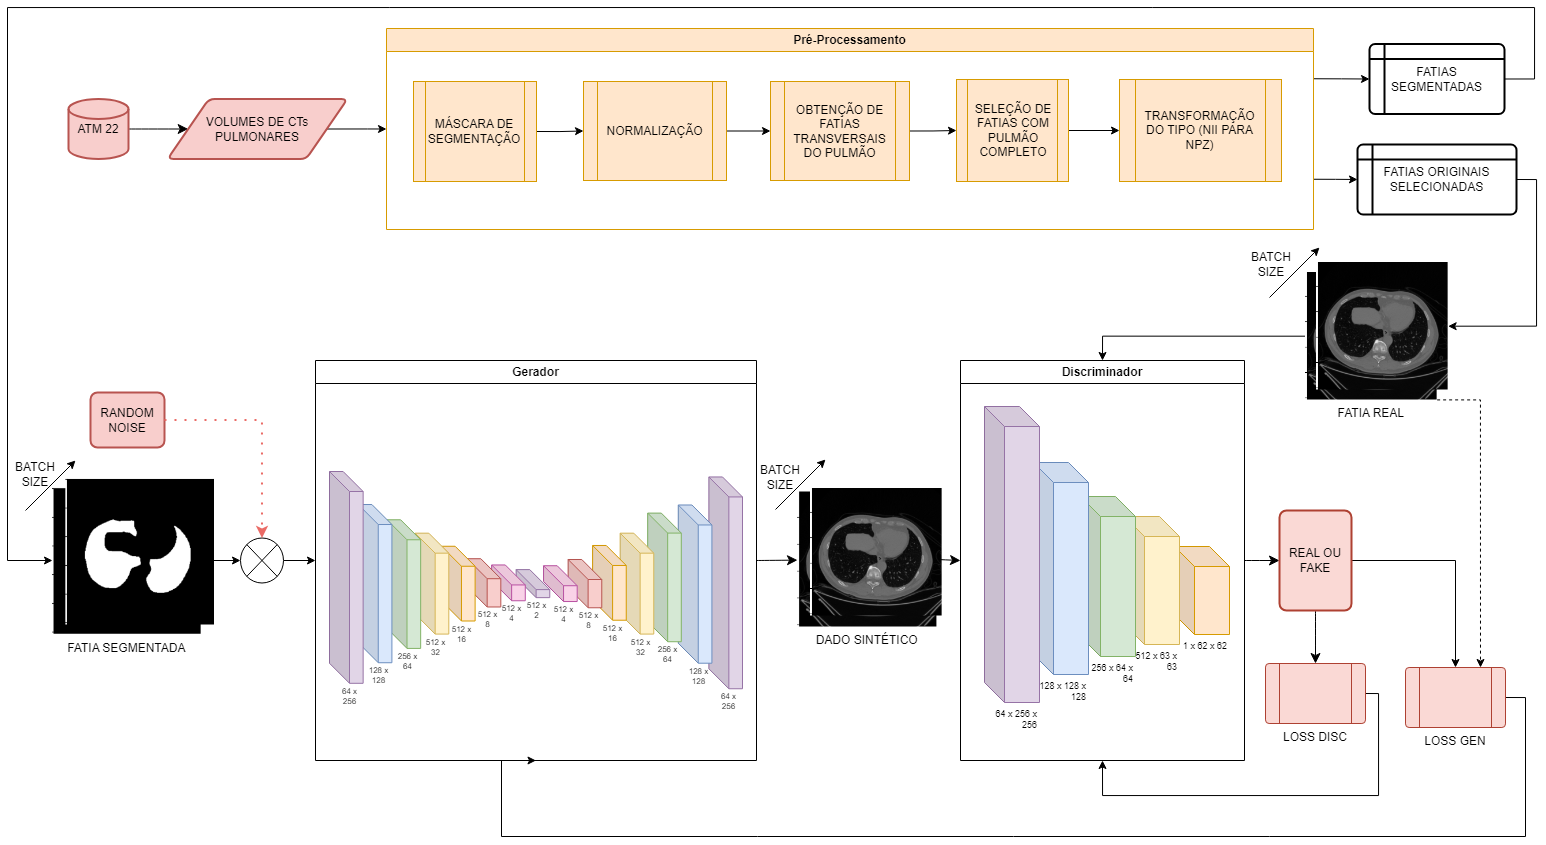
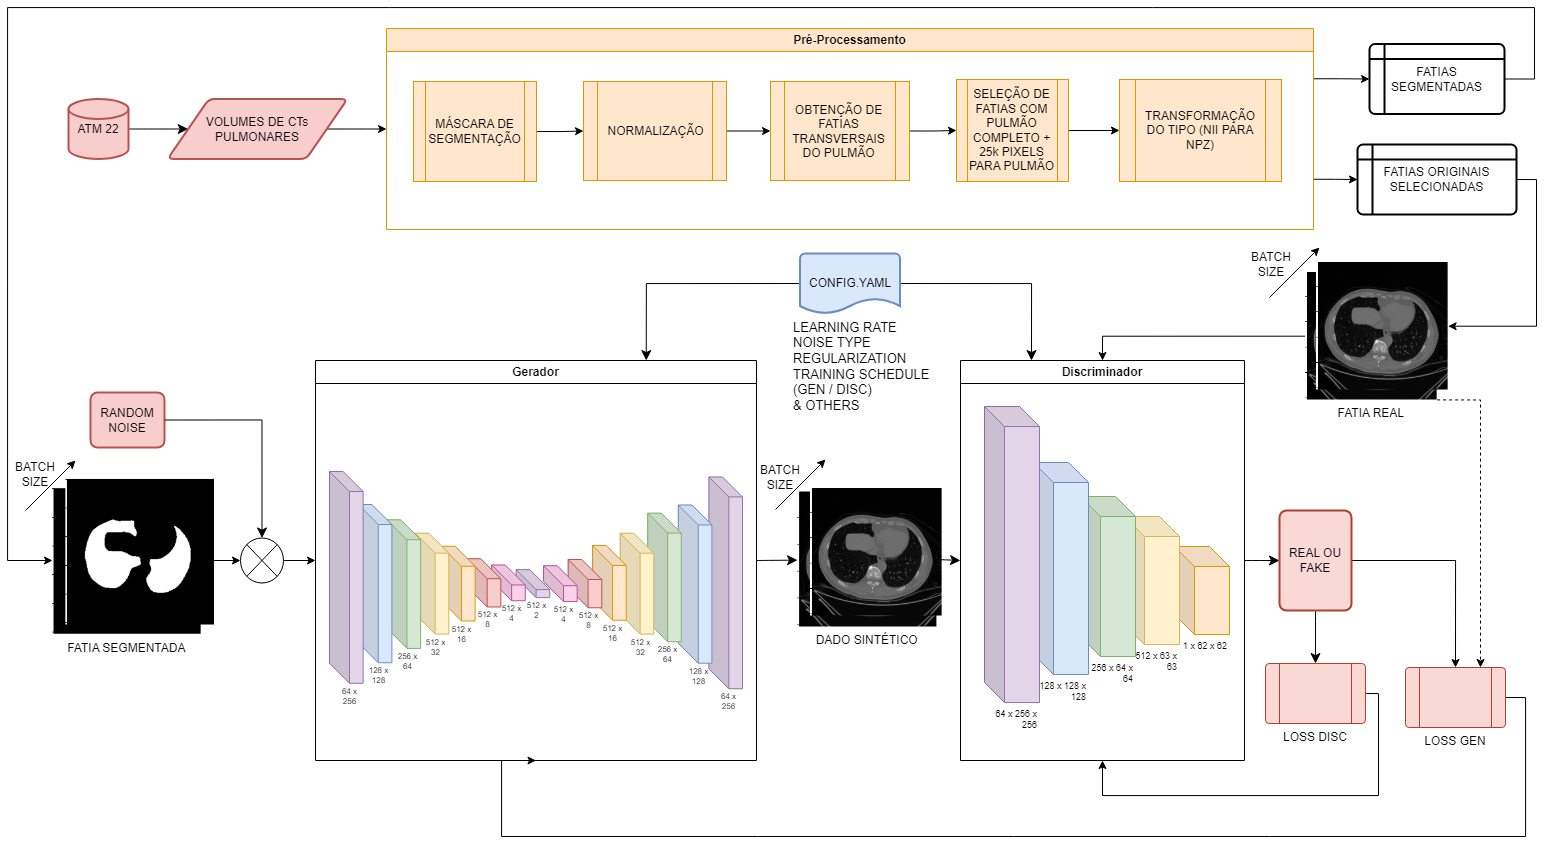
[README] Update metodologia

diff --git a/projetos/PulmoNet/README.md b/projetos/PulmoNet/README.md
@@ -12,6 +12,45 @@ oferecida no segundo semestre de 2024, na Unicamp, sob supervisão da Profa. Dra
  | Júlia Castro de Paula | 219193 | Eng. Elétrica |
  | Letícia Levin Diniz | 201438  | Eng. Elétrica |
 
+## Tabela de Conteúdos
+
+1. [Resumo](#resumo-abstract)
+2. [Links Importantes](#links-importantes)
+3. [Descrição do Problema / Motivação](#descrição-do-problemamotivação)
+4. [Objetivo](#objetivo)
+5. [Metodologia](#metodologia)
+    1. [Materiais de Referência](#materiais-de-referência)
+    2. [Modelo Proposto](#modelo-proposto)
+    3. [Bases de Dados e Evolução](#bases-de-dados-e-evolução)
+    4. [Workflow](#workflow)
+    5. [Ferramentas Relevantes](#ferramentas-relevantes)
+    6. [Métricas de Avaliação](#métricas-de-avaliação)
+        1. [Análise Qualitativa](#análise-qualitativa)
+        2. [Análise Quantitativa](#análise-quantitativa)
+        3. [Análise de Utilidade](#análise-de-utilidade)
+    7. [Cronograma](#cronograma)
+    8. [Ambiente Computacional](#ambiente-computacional)
+6. [Experimentos, Resultados e Discussão dos Resultados](#experimentos-resultados-e-discussão-dos-resultados)
+7. [Conclusão](#conclusão)
+    1. [Próximos Passos](#próximos-passos)
+8. [Referências Bibliográficas](#referências-bibliográficas)
+
+**ANEXOS**:
+1. [Varredura dos parâmetros da GAN para 10 mil dados]()
+2. [Testes adicionais com outras arquiteturas]()
+3. [Como rodar os modelos](#how-to-run)
+
+## Links Importantes
+Links para apresentações de slides e vídeos para entregas E1, E2 e E3 para a disciplina:
+
+[Link para o vídeo de apresentação E1](https://drive.google.com/file/d/1TlpQOlCh_lAI0-jPPMPWOzGZ_werCo3d/view?usp=sharing)
+
+[Link para a apresentação de slides E1](https://docs.google.com/presentation/d/1b8W0Cw1eiTbWlJ0CJJ8eMRA4zyu2iLhYvggi55-mOb0/edit?usp=sharing)
+
+[Link para a apresentação de slides E2](https://docs.google.com/presentation/d/1QH5_WpeTp7kQPSVB78ukK7msn-Tx09pZoM_3dWmeqC4/edit?usp=sharing)
+
+> TODO: link E3
+
 ## Resumo (Abstract)
 
 > TODO: Update
@@ -22,12 +61,6 @@ As tomografias computadorizadas (CT) pulmonares e a segmentação das vias aére
 As tomografias computadorizadas (CT) pulmonares, juntamente com a segmentação das vias aéreas, desempenham um papel crucial no diagnóstico preciso de doenças pulmonares. Ao gerar imagens detalhadas da região torácica, ela permite que médicos mapeiem a anatomia das vias aéreas antes de procedimentos cirúrgicos, avaliando a extensão de lesões e facilitando o acompanhamento da progressão de doenças respiratórias [[2]](#2). Além disso, a CT é fundamental para monitorar a eficácia de tratamentos e detectar seus possíveis efeitos colaterais [[5]](#5).
 
 A complexidade e diversidade do corpo humano dificultam a obtenção de grandes volumes de dados médicos para treinar modelos de aprendizado de máquina, como as redes neurais. Essa escassez de dados pode levar a diagnósticos imprecisos, comprometendo a qualidade do atendimento aos pacientes [[6]](#6). Com as redes generativas é possível criar dados de forma a compensar essa escassez, permitindo que as redes aprendam muito mais detalhes do que utilizando apenas aqueles obtidos de exames reais.
-
-[Link para o vídeo de apresentação E1](https://drive.google.com/file/d/1TlpQOlCh_lAI0-jPPMPWOzGZ_werCo3d/view?usp=sharing)
-
-[Link para a apresentação de slides E1](https://docs.google.com/presentation/d/1b8W0Cw1eiTbWlJ0CJJ8eMRA4zyu2iLhYvggi55-mOb0/edit?usp=sharing)
-
-[Link para a apresentação de slides E2](https://docs.google.com/presentation/d/1QH5_WpeTp7kQPSVB78ukK7msn-Tx09pZoM_3dWmeqC4/edit?usp=sharing)
 
 ## Objetivo
 Este projeto visa gerar imagens sintéticas de tomografia computadorizada (CT) da região torácica de alta fidelidade, também produzindo máscaras de segmentação das vias aéreas. A priori, o modelo generativo proposto terá como saída imagens em duas dimensões (2D) de CT da região do tórax, com grau de realismo suficiente e que possa auxiliar redes de segmentação de vias aéreas. 
@@ -146,8 +179,35 @@ A figura abaixo resume esta etapa de tratamento dos dados por completo.
 
 > TODO: Incluir mais detalhes da metodologia
 
-Em função da 
+Em uma perspectiva geral do projeto, a metodologia se divide em três grandes estágios:
+1. Preparação da base de dados;
+2. Treinamento e fine-tunning de modelos de síntese;
+3. Avaliação dos modelos gerados.
 
+No que diz respeito à preparação da base de dados, aplica-se o fluxo descrito na Figura 10, da seção anterior, na qual os dados são obtidos de uma fonte pública, processados e separados em conjuntos de treinamento, validação cruzada e testes. A saída desta etapa são 90 mil trios (fatia da CT pulmonar, segmentação feita por especialistas e máscara binária da região do pulmão), com dimensão 1 x 512 x 512 cada.
+
+Quanto a segunda etapa, implementa-se a arquitetura de uma GAN, descrita na seção [Modelo Proposto](#modelo-proposto), que foi concebida tomando como base o artigo [[1]](#1). Sob esta arquitetura, realiza-se uma busca pelos parâmetros ótimos de treinamento da rede conforme a tabela abaixo, a fim de encontrar a melhor combinação para gerar imagens sintéticas de CTs pulmonares mais realistas.
+Esta varredura inicial é feita com apenas 10 mil dados e analisada no conjunto de testes de maneira qualitativa (análise subjetiva dos alunos quanto aos resultados) e quantitativa (cálculo das métricas FID e SSIM).
+A partir desta análise inicial, seleciona-se três modelos para prosseguir com o treinamento com todos os dados disponíveis.
+
+|Parâmetros | Possibilidades |
+|----- | ----- |
+|Tipo de ruído | [Uniforme, Gaussiano] |
+|Localização do ruído | Na imagem completa ou apenas na região do pulmão|
+|Regularização | [0, 10] |
+|Beta |Entre 1989 e 2000 |
+|blabla | blabla |
+
+Dadas as restrições de tempo e capacidade computacional, não foram testadas todas as combinações de parâmetros da tabela acima. Com apoio da ferramenta Weights & Biases, combinou-se aleatoriamente estes parâmetros em quinze modelos, descritos na tabela abaixo.
+Ressalta-se que a configuração destes parâmetros é feita em um arquivo YAML.
+
+|Modelo | Tipo de Ruído | Localização do ruído | blabla|
+|----- | ----- | ----- | ------ |
+|Sweep10 | Gaussiano | Dentro da máscara | blabla |
+|Sweep256 | Gaussiano | Imagem completa | blabla |
+|blabla | blabla | blabla | blabla |
+
+Após esta etapa, passa-se os três melhores modelos para a etapa de avaliação de desempenho e qualidade dos resultados. Gera-se imagens sintéticas a partir de máscaras binárias de CTs pulmonares com ruído e realiza-se três testes: qualitativo, quantitativo e de utilidade. Tais testes serão descritos em mais detalhes na seção [Métricas de Avaliação](#métricas-de-avaliação).
 
 Em suma, o fluxo de trabalho proposto por este projeto, ilustrado na figura a seguir, inicia-se com a obtenção da base de dados ATM'22 e seu devido tratamento, conforme detalhado na seção anterior.
 Utilizando estes dados, alimenta-se a rede generativa com as fatias segmentadas (máscaras binárias). Já a rede discriminadora recebe os dados reais (sem segmentação) e os dados sintéticos, devendo classificar cada um como "real" ou "falso".
@@ -200,10 +260,18 @@ $$𝑠(𝑥, 𝑦) = \frac{𝜎_{𝑥𝑦} + 𝐶_{3}}{𝜎_{𝑥}𝜎_{𝑦} + 
 
 onde $𝜇_{𝑥}$, $𝜇_{𝑦}$, $𝜎_{𝑥}$, $𝜎_{𝑦}$, e $𝜎_{𝑥𝑦}$ são as médias locais, variâncias e covariâncias cruzadas para as imagens 𝑥, 𝑦, respectivamente. $𝐶_{1}$, $𝐶_{2}$ $𝐶_{3}$ são constantes.
 
+No caso do cálculo do SSIM, como o foco do projeto está associado com uma boa geração de vias aéreas pulmonares, esta métrica é calculada considerando tanto a saída completa (imagem 512 x 512) quanto apenas a região central (imagem 256 x 256).
+
 #### Análise de Utilidade
 Dado que o objetivo do projeto é gerar imagens sintéticas (2D) de CTs pulmonares realistas, avalia-se nesta etapa duas perspectivas. A primeira delas trata da segmentação das fatias sintéticas por meio da biblioteca *lungmask* e comparação desta saída com a máscara binária original que gerou esta imagem sintética. Isto é feito para avaliar se o gerador conseguiu manter o formato do pulmão original ou algo próximo a isso. Utiliza-se o SSIM para comparação destas duas fatias pulmonares segmentadas.
 
 Já a segunda perspectiva trata da utilidade do gerador, em termos de **feature extraction**. Isto é, tomando como inspiração a abordagem explorada em [[9]](#9), implementaremos uma U-Net, com a mesma estrutura da rede geradora Pix2Pix da PulmoNet, para realizar a segmentação das vias aéreas e compararemos o desempenho desta U-Net com uma outra rede que utiliza as *features* extraídas pelo nosso gerador. Esta comparação será avaliada ao comparar as saídas com a própria segmentação presente na base de dados ATM'22, feita por especialistas. Além disso, será calculado o coeficiente DICE (obtido a partir da precisão e *recall* da predição), tomando como referência o artigo [[2]](#2), e considera-se também calcular o tempo de processamento das redes U-Net e U-Net com *features* extraídos pela nossa Pix2Pix, a fim de verificar se também há uma otimização neste quesito.
+
+Ressalta-se que foram escolhidas duas funções de *loss* para esta tarefa: BCEWithLogitsLoss e DICELoss, tipicamente utilizadas em tarefas de segmentação de imagens médicas.
+Além disso, para aproveitar os pesos iniciais da GAN para a tarefa de segmentação, são feitas três variações no processo de *fine-tunning*:
+1. Retreina-se todos os pesos da arquitetura, utilizando o conhecimento adquirido pela GAN apenas como uma inicialização não aleatória para o treinamento da rede de segmentação;
+2. Congela-se apenas a parte da rede codificadora do gerador, retreinando somente o decodificador;
+3. Congela-se todas as camadas do gerador, com excessão da última camada.
 
 Por fim, é importante destacar o caminho a ser seguido para a avaliação da rede generativa para as saídas em 3D, caso seja possível implementá-las dentro do prazo do projeto. Para esta aplicação, geraríamos um volume sintético e passaríamos esta saída pela rede de segmentação *medpseg* [[10]](#10). Feito isso, compararíamos as vias aéreas segmentadas com o *ground-truth* estabelecido na própria base de dados ATM'22.
 
@@ -229,6 +297,14 @@ Dado este fluxo, estipulamos o seguinte cronograma para desenvolvimento do proje
 
 
 
+### Ambiente Computacional
+> TODO: Falar sobre a máquina usada para treinar a GAN (quantidade de memória, tipo de GPU etc) e para treinar a rede de segmentação
+
+Os modelos da GAN foram treinados em uma máquina com XXXXX características
+
+Já o modelo da rede de segmentação, para o teste de utilidade, foi treinado em um computador pessoal que tinha uma GPU RTX3050, 4G de memória de GPU, 16G de memória RAM e processador Intel I5 de 11ª geração.
+
+
 ## Experimentos, Resultados e Discussão dos Resultados
 > TODO: Atualizar com dados da E3
 
@@ -252,6 +328,9 @@ O projeto da rede PulmoNet busca a geração de fatias de CTs pulmonares a parti
 Seguindo o cronograma do projeto, as etapas até a entrega E2 foram cumpridas, de maneira que estamos atualmente na fase de treinamento do modelo e implementação dos métodos de avaliação. No caso do treinamento, estamos enfrentando algumas dificuldades que estão afetando a qualidade das saídas da rede, principalmente no quesito da velocidade de aprendizado do discriminador frente a do gerador.
 
 Os próximos passos do projeto tratam da finalização do treinamento do modelo, análise das métricas de avaliação e fine-tunning e aperfeiçoamento do modelo. Caso tenhamos tempo disponível, buscaremos a geração de volumes 3D de CTs pulmonares.
+
+### Próximos Passos
+> TODO
 
 ## Referências Bibliográficas
 
